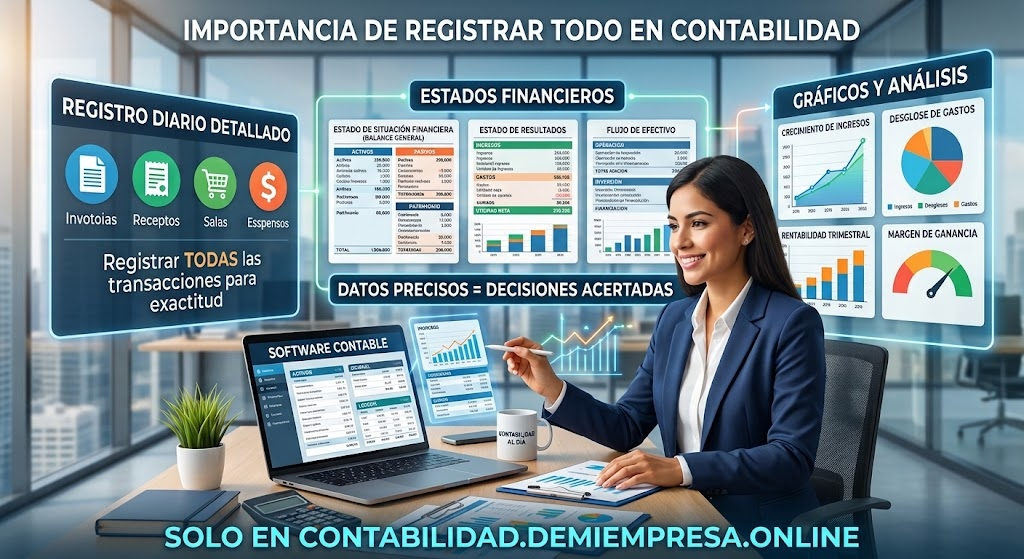
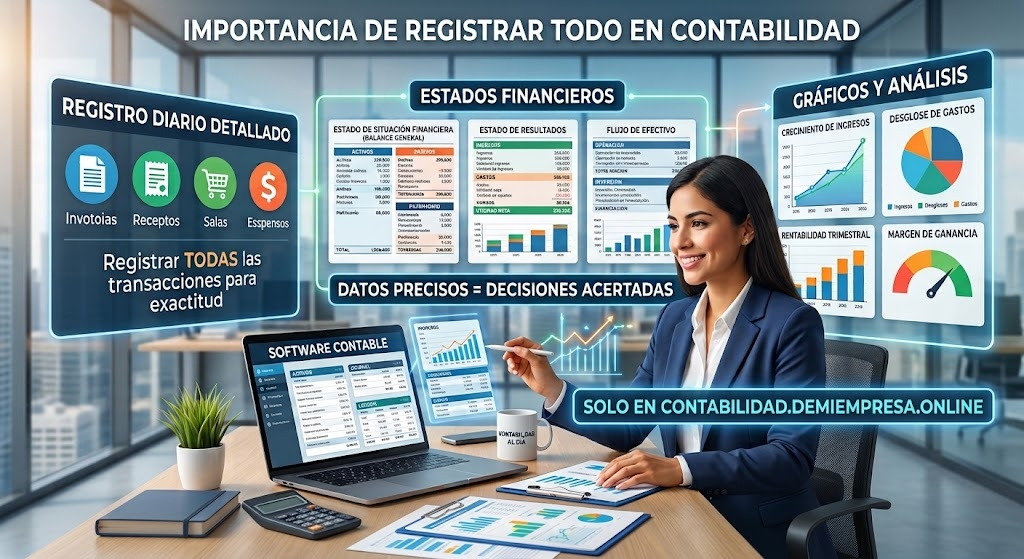
style: actualizar imagen de fondo y aplicar transparencia glassmorphism al recuadro

Changed region(s): [[0.0, 0.8819, 1.0, 1.0], [0.5312, 0.6691, 1.0, 0.7907]]

diff --git a/contabilidad_web/src/pages/SeleccionarEntorno.jsx b/contabilidad_web/src/pages/SeleccionarEntorno.jsx
@@ -104,8 +104,8 @@ export default function SeleccionarEntorno() {
 
   return (
     <div className="min-h-screen flex items-center justify-center p-4 bg-cover bg-center" style={{ backgroundImage: "linear-gradient(rgba(15, 23, 42, 0.6), rgba(15, 23, 42, 0.8)), url('/bg-entorno.jpg')" }}>
-      <div className="w-full max-w-md bg-white rounded-2xl shadow-xl overflow-hidden relative">
-        <div className="bg-gradient-to-r from-emerald-600 to-teal-700 p-8 text-center text-white">
+      <div className="w-full max-w-md bg-white/85 backdrop-blur-md rounded-2xl shadow-2xl border border-white/30 overflow-hidden relative">
+        <div className="bg-gradient-to-r from-emerald-600/95 to-teal-700/95 p-8 text-center text-white">
           <div className="w-16 h-16 bg-white text-emerald-600 rounded-full flex items-center justify-center mx-auto mb-4 shadow-lg">
             <Building className="w-8 h-8" />
           </div>
